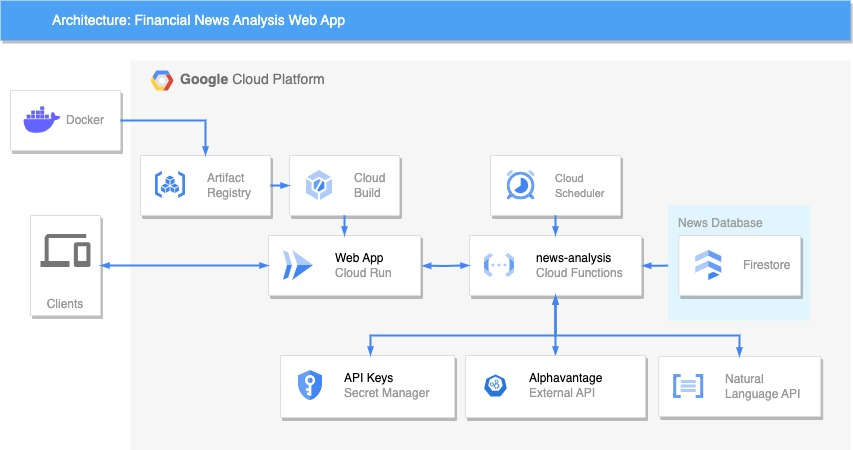
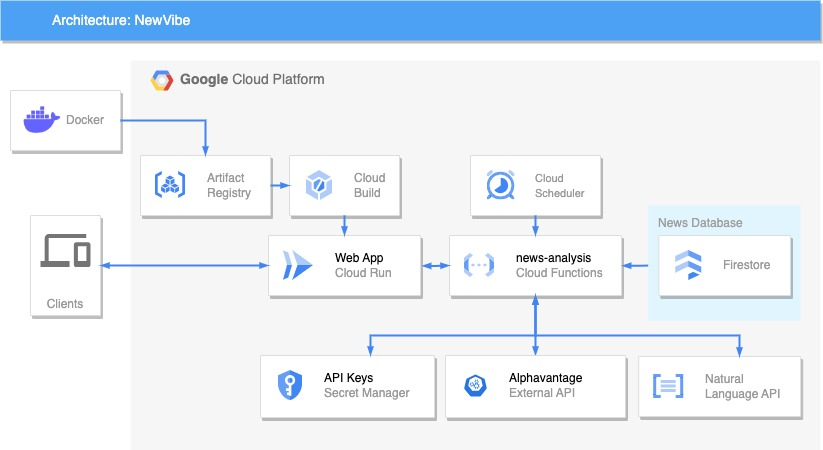
Update architecture image

diff --git a/app/templates/layout.html b/app/templates/layout.html
@@ -12,7 +12,7 @@
     <header>
         <nav class="navbar navbar-expand-lg bg-body-tertiary fixed-top" data-bs-theme="dark">
             <div class="container-fluid">
-                <a class="navbar-brand fs-6 text" href="/">News Analysis - Tadeo Deluca</a>
+                <a class="navbar-brand fs-6 text" href="/">NewVibe</a>
                 <button class="navbar-toggler" type="button" data-bs-toggle="collapse" data-bs-target="#navbarNavAltMarkup" aria-controls="navbarNavAltMarkup" aria-expanded="false" aria-label="Toggle navigation">
                     <span class="navbar-toggler-icon"></span>
                 </button>
@@ -40,7 +40,7 @@
     </div>
 
     <footer class="bg-dark text-light text-center pt-3">
-            <p>&copy; 2024 News Analysis - Tadeo Deluca</p>
+            <p>&copy; 2024 NewVibe - Tadeo Deluca</p>
             <a href="https://www.linkedin.com/in/tadeo-deluca/" class="text-decoration-none text-white" target="_blank">
                 <svg xmlns="http://www.w3.org/2000/svg" width="24" height="24" fill="currentColor" class="bi bi-linkedin" viewBox="0 0 16 16">
                     <path d="M0 1.146C0 .513.526 0 1.175 0h13.65C15.474 0 16 .513 16 1.146v13.708c0 .633-.526 1.146-1.175 1.146H1.175C.526 16 0 15.487 0 14.854zm4.943 12.248V6.169H2.542v7.225zm-1.2-8.212c.837 0 1.358-.554 1.358-1.248-.015-.709-.52-1.248-1.342-1.248S2.4 3.226 2.4 3.934c0 .694.521 1.248 1.327 1.248zm4.908 8.212V9.359c0-.216.016-.432.08-.586.173-.431.568-.878 1.232-.878.869 0 1.216.662 1.216 1.634v3.865h2.401V9.25c0-2.22-1.184-3.252-2.764-3.252-1.274 0-1.845.7-2.165 1.193v.025h-.016l.016-.025V6.169h-2.4c.03.678 0 7.225 0 7.225z"></path>
@@ -52,6 +52,5 @@
                 </svg>
             </a>    
     </footer>
-
 </body>
 </html>
